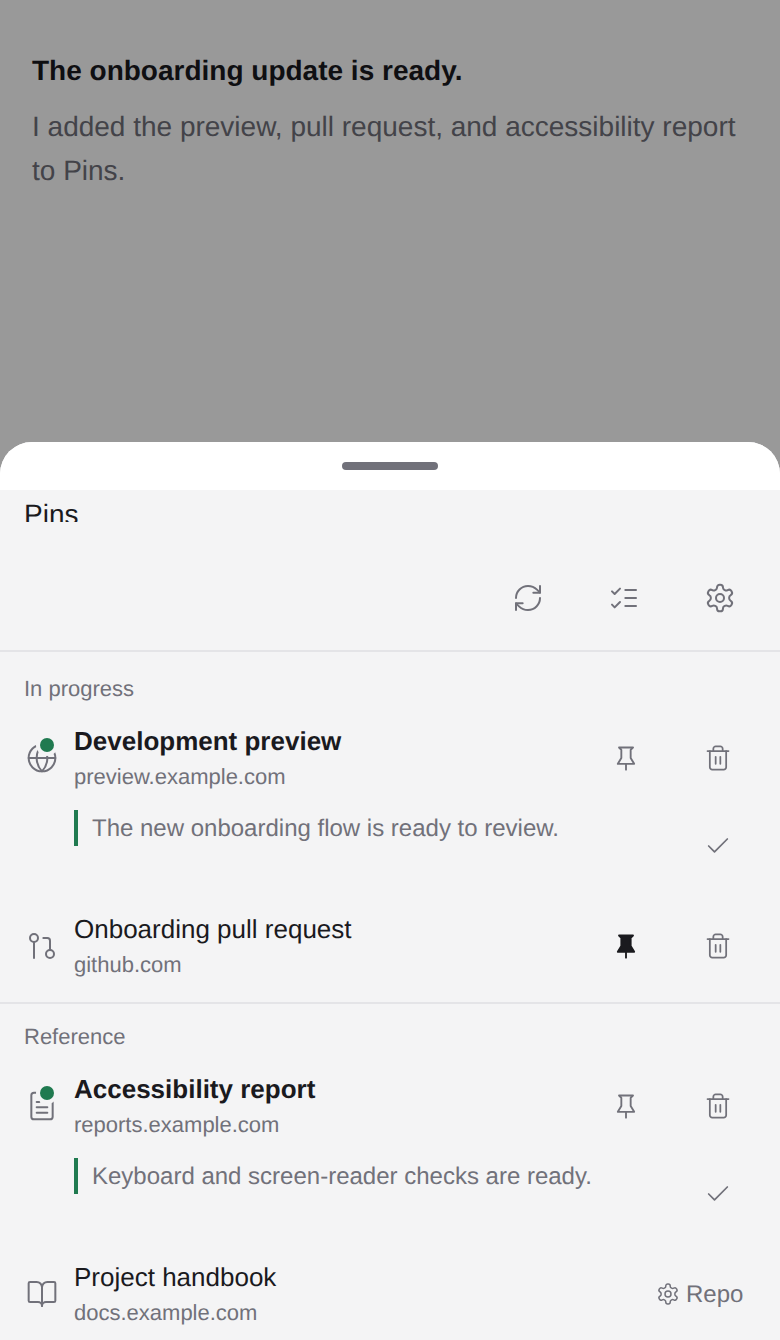
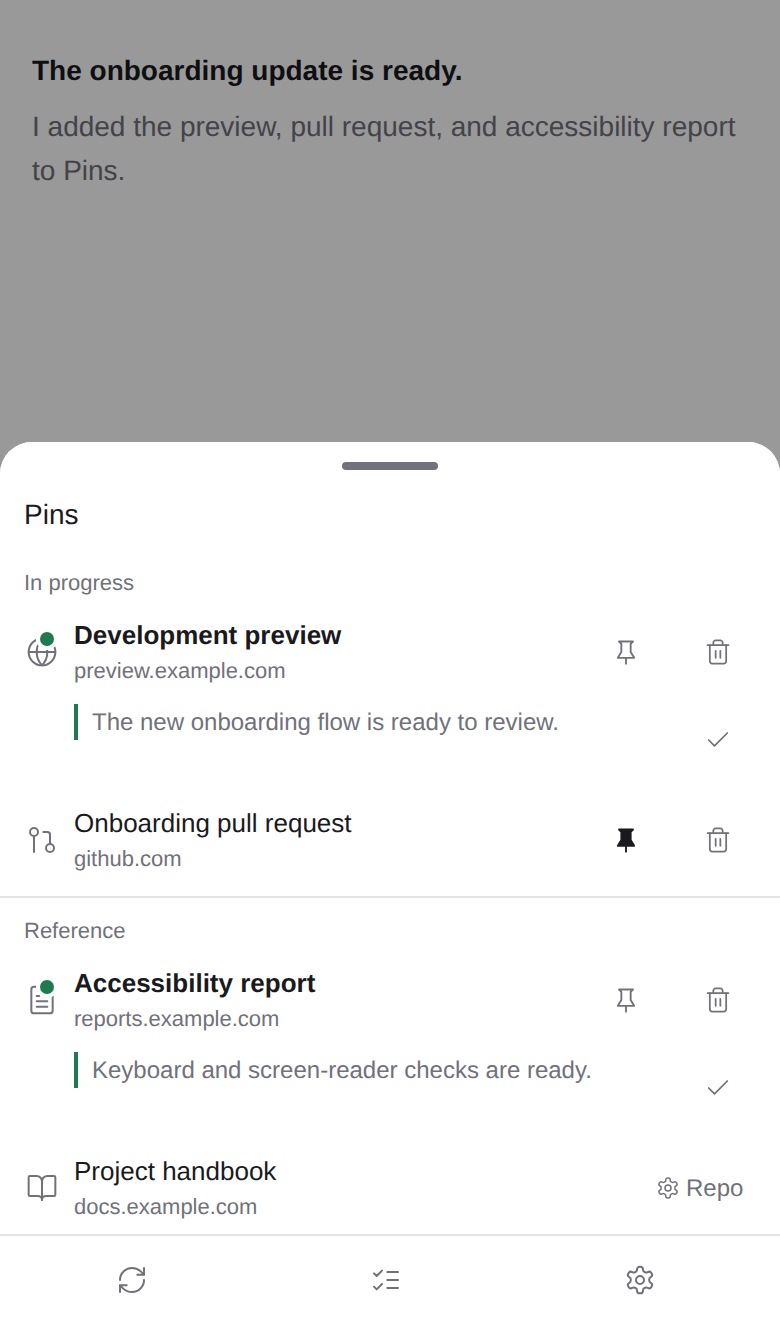
Move compact web pin actions into a bottom toolbar

diff --git a/client/menu/pins-popover.tsx b/client/menu/pins-popover.tsx
@@ -45,12 +45,10 @@ export function PinsPopover({
   }
   const touch = useTouchControls();
   const native = layout.platform !== "web";
+  const bottomActions = layout.compact && !native;
   // Match the host surface for the unread dot cutout and opaque sticky toolbar.
-  const surface = layout.compact
-    ? native
-      ? theme.colors.surface0
-      : theme.colors.surface2
-    : theme.colors.surface1;
+  // Paseo's SheetBackground uses surface0 on both native and compact web.
+  const surface = layout.compact ? theme.colors.surface0 : theme.colors.surface1;
   const inFlight = useRef(false);
   const [busy, setBusy] = useState(false);
   const [actionError, setActionError] = useState<string | null>(null);
@@ -161,6 +159,142 @@ export function PinsPopover({
 
   const groups = groupPins(query.data?.pins ?? [], query.data?.sections ?? []);
 
+  const actions = (
+    <View
+      testID="pins-actions"
+      style={{
+        flexDirection: "row",
+        justifyContent: bottomActions ? "space-around" : "flex-end",
+        gap: 4,
+        // Extend the divider through the host inset, preserving action alignment.
+        marginHorizontal: -4,
+        paddingLeft: 4,
+        paddingRight: 8,
+        marginTop: layout.compact ? 0 : -2,
+        marginBottom: bottomActions ? 0 : 4,
+        paddingBottom: bottomActions ? 0 : 4,
+        borderBottomWidth: bottomActions ? 0 : 1,
+        borderTopWidth: bottomActions ? 1 : 0,
+        borderTopColor: theme.colors.border,
+        backgroundColor: surface,
+        borderBottomColor: theme.colors.border,
+        zIndex: groups.length + 2,
+        // Web CSS sticks within the host's scroll area without introducing a second scroller.
+        // Native sheets own their ScrollView and expose no sticky-header registration.
+        ...(!native && !bottomActions
+          ? {
+              position: "sticky" as ViewStyle["position"],
+              // Match the resting inset: desktop host padding (4px) minus our 2px top trim.
+              top: layout.compact ? 0 : 2,
+              backgroundColor: surface,
+            }
+          : {}),
+      }}
+    >
+      {!native && !bottomActions && (
+        <View
+          pointerEvents="none"
+          accessible={false}
+          style={{
+            // Cover the host's top inset as rows pass behind the sticky toolbar.
+            position: "absolute",
+            top: -16,
+            height: 16,
+            left: 0,
+            right: 0,
+            backgroundColor: surface,
+          }}
+        />
+      )}
+      {!empty && (
+        <>
+          <MenuAction
+            icon={refreshIcon}
+            label={refreshLabel}
+            tooltip={refreshLabel}
+            placement={bottomActions ? "above" : "below"}
+            tooltipAlign={bottomActions ? "left" : "right"}
+            theme={theme}
+            touch={touch}
+            disabled={refreshDisabled}
+            busy={refresh.busy || refreshing}
+            onPress={refreshPins}
+          />
+          <MenuAction
+            icon="ListChecks"
+            label="Mark all pins as read"
+            tooltip="Mark as read"
+            placement={bottomActions ? "above" : "below"}
+            theme={theme}
+            touch={touch}
+            disabled={busy || unreadEntries.length === 0}
+            busy={busy}
+            onPress={() => {
+              void read(unreadEntries);
+            }}
+          />
+        </>
+      )}
+      <MenuAction
+        icon="Settings"
+        label="Pins settings"
+        tooltip="Pins settings"
+        placement={bottomActions ? "above" : "below"}
+        theme={theme}
+        touch={touch}
+        disabled={false}
+        busy={false}
+        onPress={openSettings}
+      />
+    </View>
+  );
+
+  const removalNotice = removal && (
+    <View
+      testID="pin-removal-notice"
+      style={{
+        flexDirection: "row",
+        alignItems: "center",
+        gap: 8,
+        marginTop: 6,
+        marginHorizontal: -4,
+        paddingHorizontal: 12,
+        paddingVertical: 8,
+        borderTopWidth: 1,
+        borderTopColor: theme.colors.border,
+        backgroundColor: surface,
+        zIndex: groups.length + 1,
+        ...(!native && !bottomActions
+          ? { position: "sticky" as ViewStyle["position"], bottom: 0 }
+          : {}),
+      }}
+    >
+      <View style={{ flex: 1, minWidth: 0 }} accessibilityLiveRegion="polite">
+        <Text style={foreground} numberOfLines={2}>
+          {removal.title}
+        </Text>
+        <Text style={muted}>Removed from Pins</Text>
+      </View>
+      <Pressable
+        accessibilityRole="button"
+        accessibilityLabel={`Undo removal of ${removal.title}`}
+        disabled={busy}
+        accessibilityState={{ disabled: busy }}
+        onPress={() => {
+          void undo();
+        }}
+        style={({ pressed }) => ({
+          minHeight: touch ? 44 : 28,
+          justifyContent: "center",
+          paddingHorizontal: 4,
+          opacity: busy ? 0.4 : pressed ? 0.7 : 1,
+        })}
+      >
+        <Text style={{ ...foreground, color: theme.colors.accent, fontWeight: "600" }}>Undo</Text>
+      </Pressable>
+    </View>
+  );
+
   return (
     <RepoSourceLayer
       theme={theme}
@@ -178,86 +312,7 @@ export function PinsPopover({
           marginVertical: -12,
         }}
       >
-        <View
-          testID="pins-actions"
-          style={{
-            flexDirection: "row",
-            justifyContent: "flex-end",
-            gap: 4,
-            // Extend the divider through the host inset, preserving action alignment.
-            marginHorizontal: -4,
-            paddingLeft: 4,
-            paddingRight: 8,
-            marginTop: layout.compact ? 0 : -2,
-            marginBottom: 4,
-            paddingBottom: 4,
-            borderBottomWidth: 1,
-            borderBottomColor: theme.colors.border,
-            zIndex: groups.length + 2,
-            // Web CSS sticks within the host's scroll area without introducing a second scroller.
-            // Native sheets own their ScrollView and expose no sticky-header registration.
-            ...(!native
-              ? {
-                  position: "sticky" as ViewStyle["position"],
-                  // Match the resting inset: desktop host padding (4px) minus our 2px top trim.
-                  top: layout.compact ? 0 : 2,
-                  backgroundColor: surface,
-                }
-              : {}),
-          }}
-        >
-          {!native && (
-            <View
-              pointerEvents="none"
-              accessible={false}
-              style={{
-                // Cover the host's top inset as rows pass behind the sticky toolbar.
-                position: "absolute",
-                top: -16,
-                height: 16,
-                left: 0,
-                right: 0,
-                backgroundColor: surface,
-              }}
-            />
-          )}
-          {!empty && (
-            <>
-              <MenuAction
-                icon={refreshIcon}
-                label={refreshLabel}
-                tooltip={refreshLabel}
-                theme={theme}
-                touch={touch}
-                disabled={refreshDisabled}
-                busy={refresh.busy || refreshing}
-                onPress={refreshPins}
-              />
-              <MenuAction
-                icon="ListChecks"
-                label="Mark all pins as read"
-                tooltip="Mark as read"
-                theme={theme}
-                touch={touch}
-                disabled={busy || unreadEntries.length === 0}
-                busy={busy}
-                onPress={() => {
-                  void read(unreadEntries);
-                }}
-              />
-            </>
-          )}
-          <MenuAction
-            icon="Settings"
-            label="Pins settings"
-            tooltip="Pins settings"
-            theme={theme}
-            touch={touch}
-            disabled={false}
-            busy={false}
-            onPress={openSettings}
-          />
-        </View>
+        {!bottomActions && actions}
         {query.data?.config?.error && (
           <View style={{ padding: 8, gap: 5 }}>
             <Text accessibilityRole="alert" style={muted}>
@@ -403,50 +458,24 @@ export function PinsPopover({
             ))}
           </View>
         ))}
-        {removal && (
+        {bottomActions ? (
           <View
-            testID="pin-removal-notice"
+            testID="pins-footer"
             style={{
-              flexDirection: "row",
-              alignItems: "center",
-              gap: 8,
-              marginTop: 6,
-              marginHorizontal: -4,
-              paddingHorizontal: 12,
-              paddingVertical: 8,
-              borderTopWidth: 1,
-              borderTopColor: theme.colors.border,
+              position: "sticky" as ViewStyle["position"],
+              // Match the host page inset and sheet safe-area padding.
+              bottom: "calc(8px + env(safe-area-inset-bottom, 0px))" as ViewStyle["bottom"],
+              // Paint the inset without an absolute child extending the scroll range.
+              boxShadow: `0 calc(8px + env(safe-area-inset-bottom, 0px)) 0 0 ${surface}`,
               backgroundColor: surface,
-              zIndex: groups.length + 1,
-              ...(!native ? { position: "sticky" as ViewStyle["position"], bottom: 0 } : {}),
+              zIndex: groups.length + 2,
             }}
           >
-            <View style={{ flex: 1, minWidth: 0 }} accessibilityLiveRegion="polite">
-              <Text style={foreground} numberOfLines={2}>
-                {removal.title}
-              </Text>
-              <Text style={muted}>Removed from Pins</Text>
-            </View>
-            <Pressable
-              accessibilityRole="button"
-              accessibilityLabel={`Undo removal of ${removal.title}`}
-              disabled={busy}
-              accessibilityState={{ disabled: busy }}
-              onPress={() => {
-                void undo();
-              }}
-              style={({ pressed }) => ({
-                minHeight: touch ? 44 : 28,
-                justifyContent: "center",
-                paddingHorizontal: 4,
-                opacity: busy ? 0.4 : pressed ? 0.7 : 1,
-              })}
-            >
-              <Text style={{ ...foreground, color: theme.colors.accent, fontWeight: "600" }}>
-                Undo
-              </Text>
-            </Pressable>
+            {removalNotice}
+            {actions}
           </View>
+        ) : (
+          removalNotice
         )}
       </View>
     </RepoSourceLayer>

diff --git a/client/ui/menu-action.tsx b/client/ui/menu-action.tsx
@@ -19,6 +19,8 @@ export function MenuAction({
   busy,
   expanded,
   showLabel = false,
+  placement = "below",
+  tooltipAlign = "right",
   onPress,
 }: {
   icon: string;
@@ -30,6 +32,8 @@ export function MenuAction({
   busy: boolean;
   expanded?: boolean;
   showLabel?: boolean;
+  placement?: "above" | "below";
+  tooltipAlign?: "left" | "right";
   onPress(): void;
 }) {
   const tip = useActionTooltip(touch, disabled);
@@ -84,8 +88,8 @@ export function MenuAction({
           pointerEvents="none"
           style={{
             position: "absolute",
-            top: size + 4,
-            right: 0,
+            ...(placement === "above" ? { bottom: size + 4 } : { top: size + 4 }),
+            ...(tooltipAlign === "left" ? { left: 0 } : { right: 0 }),
             ...actionTooltipContentStyle,
             ...tooltipSurfaceStyle(theme),
           }}

diff --git a/tools/listing/preview.jsx b/tools/listing/preview.jsx
@@ -35,7 +35,7 @@ const theme = { colors };
 const host = { id: "listing-preview" };
 const layout = { compact, platform: "web" };
 const client = new QueryClient({ defaultOptions: { queries: { retry: false } } });
-const menuSurface = compact ? colors.surface2 : colors.surface1;
+const menuSurface = compact ? colors.surface0 : colors.surface1;
 document.body.style.background = colors.surface0;
 
 createRoot(document.getElementById("app")).render(
@@ -146,7 +146,7 @@ function Conversation() {
 
 function MenuContent() {
   return (
-    <div style={{ padding: 12 }}>
+    <div style={{ padding: 12, paddingBottom: compact ? 20 : 12 }}>
       <PinsPopover
         workspaceId="sample"
         host={host}
